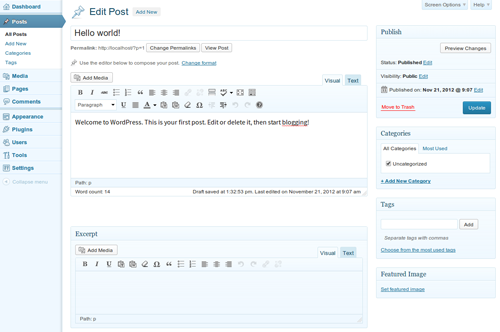
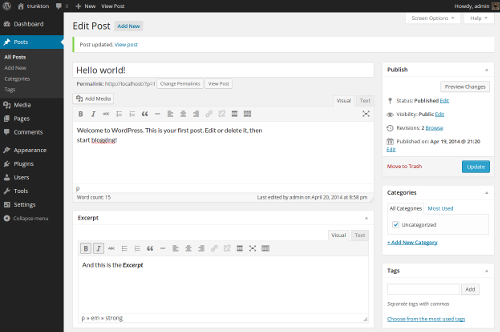
added grunt for updating translation files - compiled new Polish translation - modified screenshot

diff --git a/Gruntfile.js b/Gruntfile.js
@@ -1,0 +1,20 @@
+module.exports = function(grunt) {
+
+  // Project configuration.
+  grunt.initConfig({
+    pkg: grunt.file.readJSON('package.json'),
+    po2mo: {
+      files: {
+        src: 'languages/*.po',
+        expand: true,
+      },
+    },
+  });
+
+  // Load the plugin that provides the "po2mo" task.
+  grunt.loadNpmTasks('grunt-po2mo');
+
+  // Default task(s).
+  grunt.registerTask('default', ['po2mo']);
+
+};
